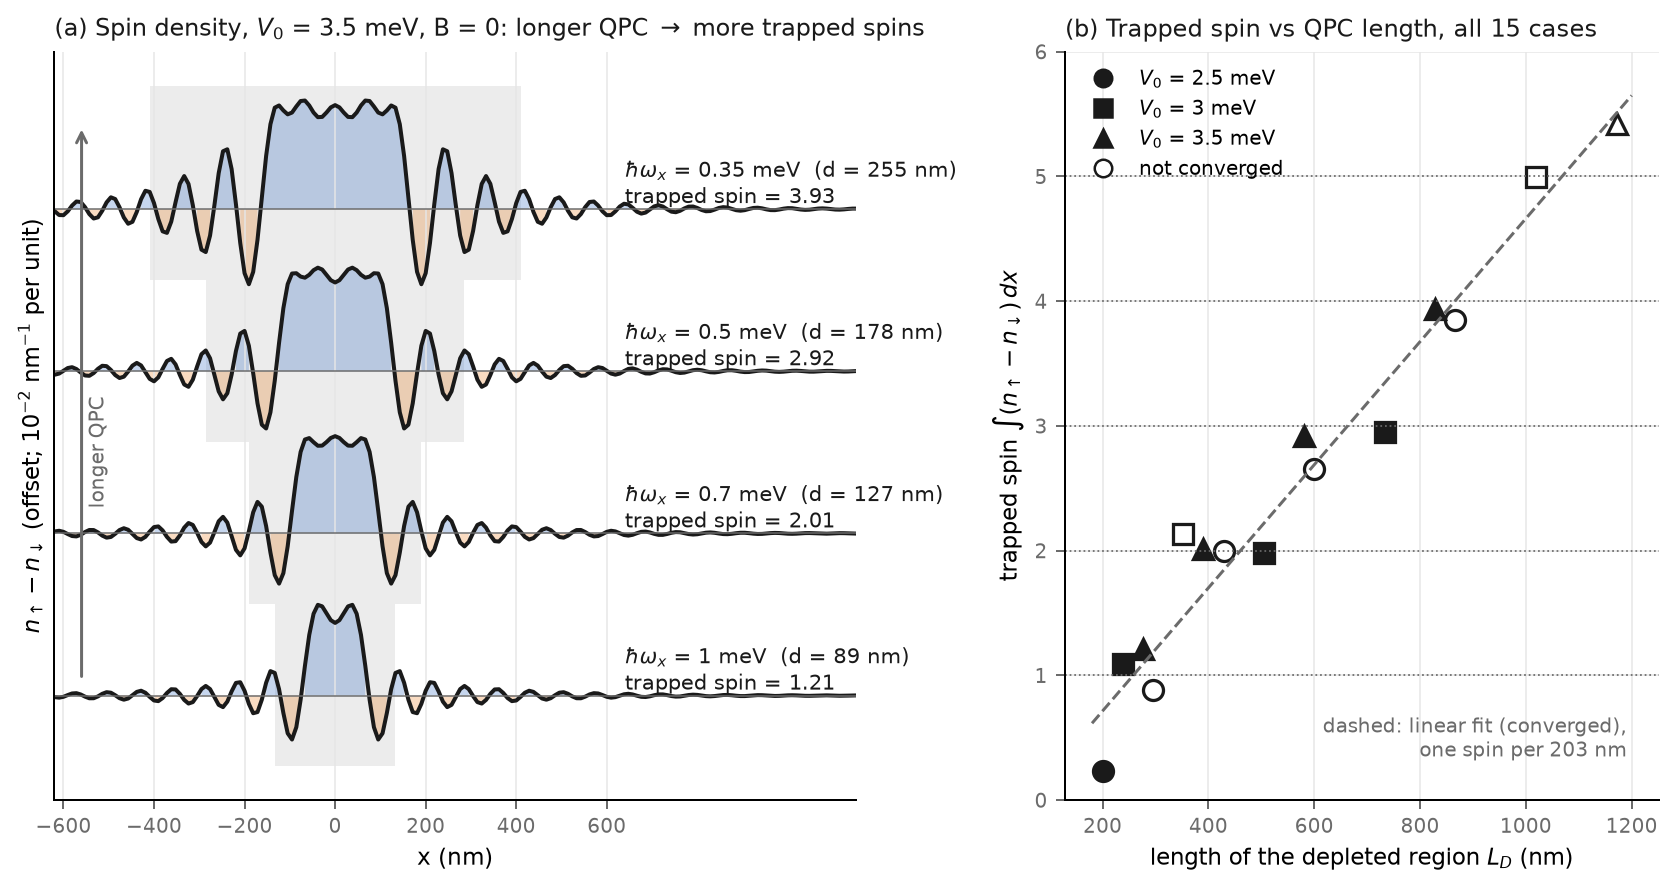
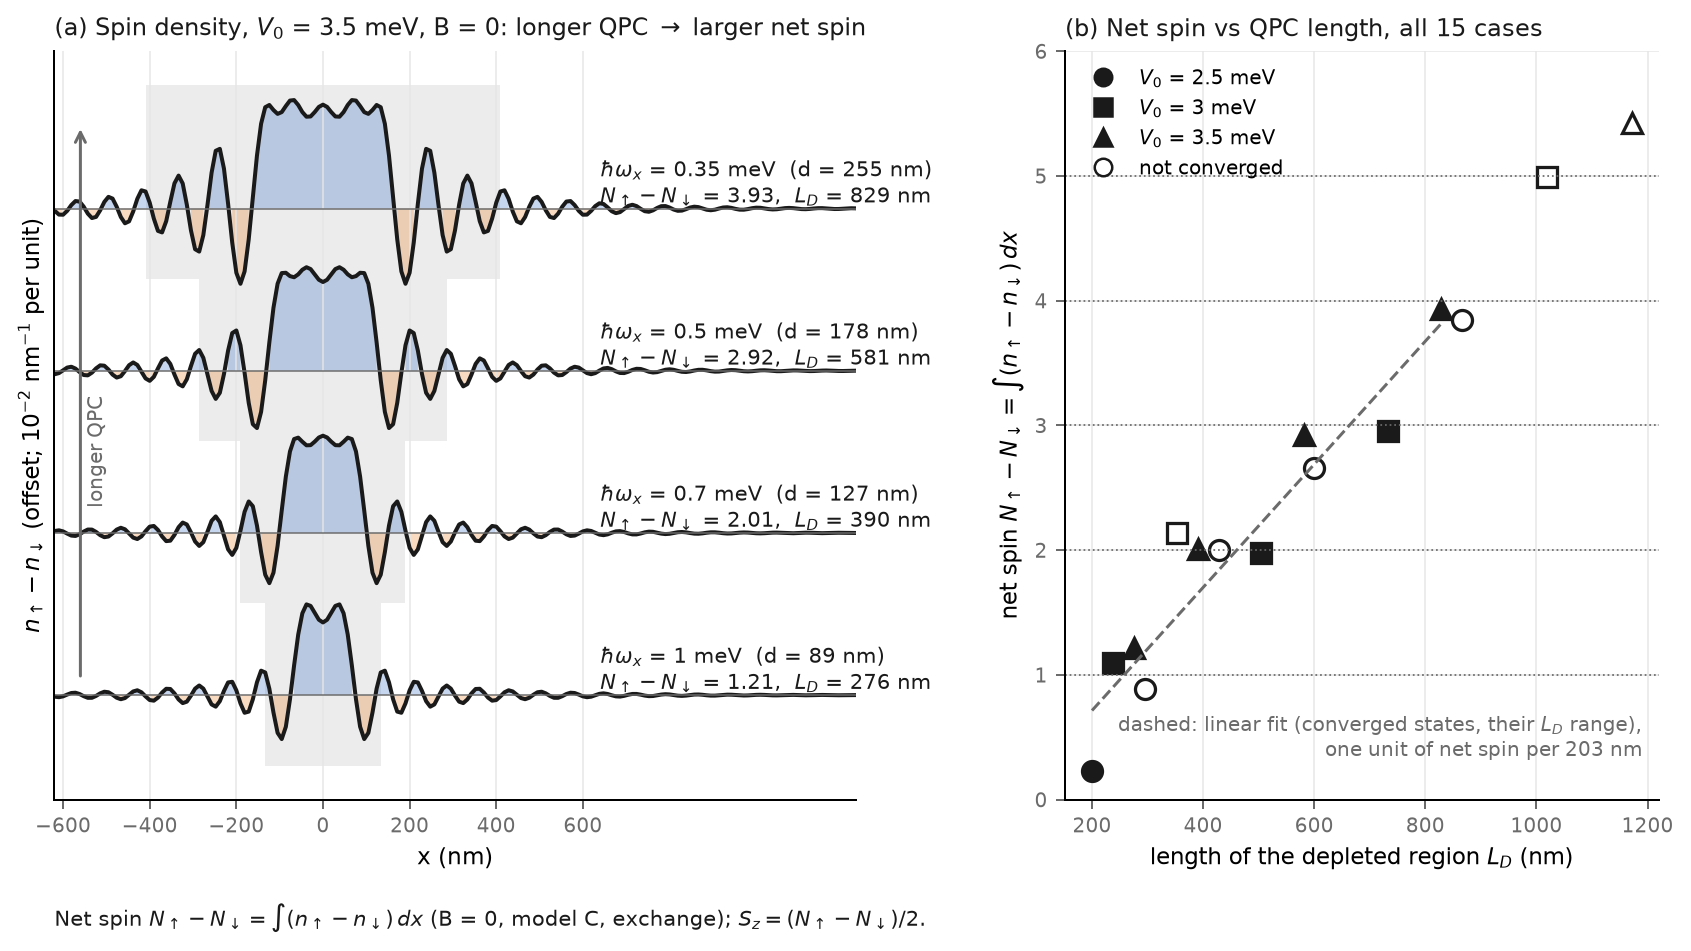
two_e highlights: spin split adds up, net spin labels, fit over converged range, Omega_unpol bars, L_D labels

diff --git a/scripts/plot_highlights.py b/scripts/plot_highlights.py
@@ -2,12 +2,14 @@
 
 figures/two_e/highlight1_trapped_spins.png
   (a) s(x) = n_up - n_dn at B = 0 for V0 = 3.5 meV and decreasing hbar w_x (longer QPC), offset vertically,
-      the depleted region D shaded, each curve labelled with its trapped spin int s dx.
-  (b) trapped spin vs the length L_D of D for all 15 Phase 1 cases (marker shape = V0, filled = converged,
-      hollow = not converged), guide lines at whole numbers and the linear fit of the converged states.
+      the depleted region D shaded, each curve labelled with its net spin N_up - N_dn = int s dx and L_D.
+  (b) net spin vs the length L_D of D for all 15 Phase 1 cases (marker shape = V0, filled = converged,
+      hollow = not converged), guide lines at whole numbers and the linear fit of the converged states
+      (drawn over their L_D range only). S_z = (N_up - N_dn)/2.
 figures/two_e/highlight2_P_vs_AP.png
   main case hbar w_x = 0.5, V0 = 3.0: (top) n_up(x), n_dn(x) for P and AP; (bottom) eps_0,s(x) - mu;
-  (right) Omega_AP - Omega_P for the three P/AP pairs.
+  (right) Omega_AP - Omega_P and Omega_unpol - Omega_P for the three P/AP pairs. The spin within D is split
+  into left / right halves (the x = 0 sample counted half to each side) plus the remainder outside D.
 
 Usage: python scripts/plot_highlights.py
 """
@@ -58,13 +60,14 @@ def highlight1():
         a.plot(x, off + s, color=INK, lw=1.6)
         a.axhline(off, color=MUTED, lw=0.6)
         a.text(640, off + 0.35, f"$\\hbar\\omega_x$ = {wx:g} meV  (d = {j['d_nm']:.0f} nm)\n"
-                                f"trapped spin = {j['net_spin']:.2f}", fontsize=8.5, color=INK, va="center")
-    a.set_xlim(-620, 1150)
+                                f"$N_\\uparrow - N_\\downarrow$ = {j['net_spin']:.2f},  $L_D$ = {j['L_D']:.0f} nm",
+               fontsize=8.5, color=INK, va="center")
+    a.set_xlim(-620, 1230)
     a.set_xticks([-600, -400, -200, 0, 200, 400, 600])
     a.set_yticks([])
     a.set_xlabel("x (nm)", fontsize=9)
     a.set_ylabel(r"$n_\uparrow - n_\downarrow$ (offset; $10^{-2}$ nm$^{-1}$ per unit)", fontsize=9)
-    a.set_title(r"(a) Spin density, $V_0$ = 3.5 meV, B = 0: longer QPC $\rightarrow$ more trapped spins",
+    a.set_title(r"(a) Spin density, $V_0$ = 3.5 meV, B = 0: longer QPC $\rightarrow$ larger net spin",
                 fontsize=9.5, color=INK, loc="left")
     a.annotate("", xy=(-560, step * 3 + 1.2), xytext=(-560, 0.2),
                arrowprops=dict(arrowstyle="->", color=MUTED, lw=1.2))
@@ -87,18 +90,21 @@ def highlight1():
         b.axhline(k, color=MUTED, lw=0.7, ls=":")
     P = np.array(conv_pts)
     kfit, cfit = np.polyfit(P[:, 0], P[:, 1], 1)
-    xs = np.linspace(180, 1200, 50)
+    xs = np.linspace(P[:, 0].min(), P[:, 0].max(), 50)     # converged range only
     b.plot(xs, kfit * xs + cfit, color=MUTED, lw=1.2, ls="--")
-    b.text(1190, 0.35, f"dashed: linear fit (converged),\none spin per {1 / kfit:.0f} nm", fontsize=8, color=MUTED,
+    b.text(1190, 0.35, f"dashed: linear fit (converged states, their $L_D$ range),\n"
+                       f"one unit of net spin per {1 / kfit:.0f} nm", fontsize=8, color=MUTED,
            ha="right")
     for V0 in V0S:
         b.plot([], [], MARK[V0], ms=7, mfc=INK, mec=INK, ls="none", label=f"$V_0$ = {V0:g} meV")
     b.plot([], [], "o", ms=7, mfc="white", mec=INK, ls="none", label="not converged")
     b.legend(frameon=False, fontsize=8, loc="upper left")
     b.set_xlabel(r"length of the depleted region $L_D$ (nm)", fontsize=9)
-    b.set_ylabel(r"trapped spin $\int (n_\uparrow - n_\downarrow)\,dx$", fontsize=9)
+    b.set_ylabel(r"net spin $N_\uparrow - N_\downarrow = \int (n_\uparrow - n_\downarrow)\,dx$", fontsize=9)
     b.set_ylim(0, 6)
-    b.set_title("(b) Trapped spin vs QPC length, all 15 cases", fontsize=9.5, color=INK, loc="left")
+    b.set_title("(b) Net spin vs QPC length, all 15 cases", fontsize=9.5, color=INK, loc="left")
+    fig.text(0.125, -0.02, r"Net spin $N_\uparrow - N_\downarrow = \int (n_\uparrow - n_\downarrow)\,dx$ "
+             r"(B = 0, model C, exchange); $S_z = (N_\uparrow - N_\downarrow)/2$.", fontsize=8.5, color=INK)
     fig.savefig("figures/two_e/highlight1_trapped_spins.png", dpi=180, bbox_inches="tight")
     plt.close(fig)
 
@@ -125,9 +131,14 @@ def highlight2(wx=0.5, V0=3.0):
         a.set_ylim(0, 2.6)
         dx = x[1] - x[0]
         sr = z["s_x"]                                        # nm^-1, unscaled
-        left, right = sr[(x < 0) & (x >= lo)].sum() * dx, sr[(x > 0) & (x <= hi)].sum() * dx
-        a.set_title(f"{lab}: spin left {left:+.2f}, right {right:+.2f}, total {j['net_spin']:+.2f}",
-                    fontsize=9, color=INK, loc="left")
+        i0 = int(np.argmin(np.abs(x)))                       # x = 0 sample: half to each side
+        left = (sr[(x < 0) & (x >= lo)].sum() + 0.5 * sr[i0]) * dx
+        right = (sr[(x > 0) & (x <= hi)].sum() + 0.5 * sr[i0]) * dx
+        tot, left, right = round(sr.sum() * dx, 3), round(left, 3), round(right, 3)
+        rest = tot - left - right                            # from the shown values, so the parts add up exactly
+        a.set_title(f"{lab}: $N_\\uparrow - N_\\downarrow$ = {tot:+.3f}\n"
+                    f"within D: left {left:+.3f}, right {right:+.3f};  outside D: {rest:+.3f}",
+                    fontsize=8.5, color=INK, loc="left")
         if c == 0:
             a.set_ylabel(r"$n_\sigma(x)$ ($10^{-2}$ nm$^{-1}$)", fontsize=9)
             a.legend(frameon=False, fontsize=8, loc="lower left")
@@ -151,19 +162,23 @@ def highlight2(wx=0.5, V0=3.0):
     style(d)
     pairs = [(0.5, 3.0), (0.35, 3.0), (0.5, 3.5)]
     vals = [1000 * json.load(open(folder(w, v, True) + "phase3.json"))["Delta_meV"] for w, v in pairs]
+    unp = [-1000 * load(w, v)[0]["dOmega_pol_unpol_meV"] for w, v in pairs]     # Omega_unpol - Omega_P
     ys = np.arange(len(pairs))[::-1]
-    d.barh(ys, vals, height=0.45, color=MUTED)
-    for y, v in zip(ys, vals):
-        d.text(v + 3, y, f"+{v:.0f} $\\mu$eV", va="center", fontsize=8.5, color=INK)
+    d.barh(ys + 0.18, vals, height=0.32, color=MUTED, label=r"$\Omega_{AP}-\Omega_P$")
+    d.barh(ys - 0.18, unp, height=0.32, color="#c8c8c8", label=r"$\Omega_{unpol}-\Omega_P$")
+    for y, v, u in zip(ys, vals, unp):
+        d.text(v + 3, y + 0.18, f"+{v:.0f}", va="center", fontsize=8.5, color=INK)
+        d.text(u + 3, y - 0.18, f"+{u:.0f}", va="center", fontsize=8.5, color=INK)
+    d.legend(frameon=False, fontsize=8, loc="upper right", bbox_to_anchor=(1.0, 1.0))
     d.set_yticks(ys)
     d.set_yticklabels([f"$\\hbar\\omega_x$ {w:g}\n$V_0$ {v:g}" for w, v in pairs], fontsize=8)
     d.axvline(0, color=INK, lw=0.9)
     d.axvline(50, color=MUTED, lw=0.8, ls=":")
     d.text(52, -0.55, "kT = 50 $\\mu$eV", fontsize=7.5, color=MUTED)
-    d.set_xlim(0, 160)
+    d.set_xlim(0, 185)
     d.set_ylim(-0.7, len(pairs) - 0.4)
-    d.set_xlabel(r"$\Omega_{AP}-\Omega_P$ ($\mu$eV)", fontsize=9)
-    d.set_title("P is lower in all\nthree cases", fontsize=9, color=INK, loc="left")
+    d.set_xlabel(r"grand potential above P ($\mu$eV)", fontsize=9)
+    d.set_title("P is the lowest state\nin all three cases", fontsize=9, color=INK, loc="left")
     fig.savefig("figures/two_e/highlight2_P_vs_AP.png", dpi=180, bbox_inches="tight")
     plt.close(fig)
 
